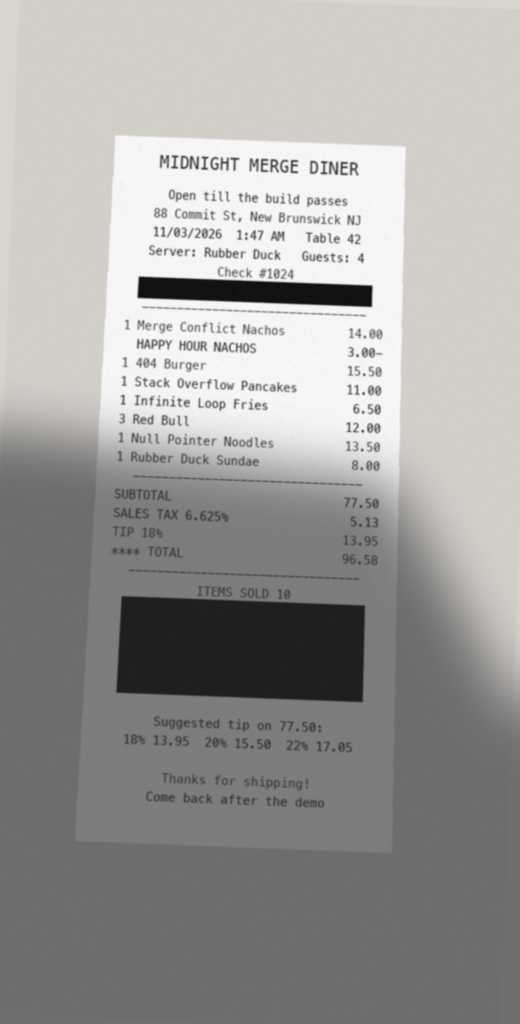
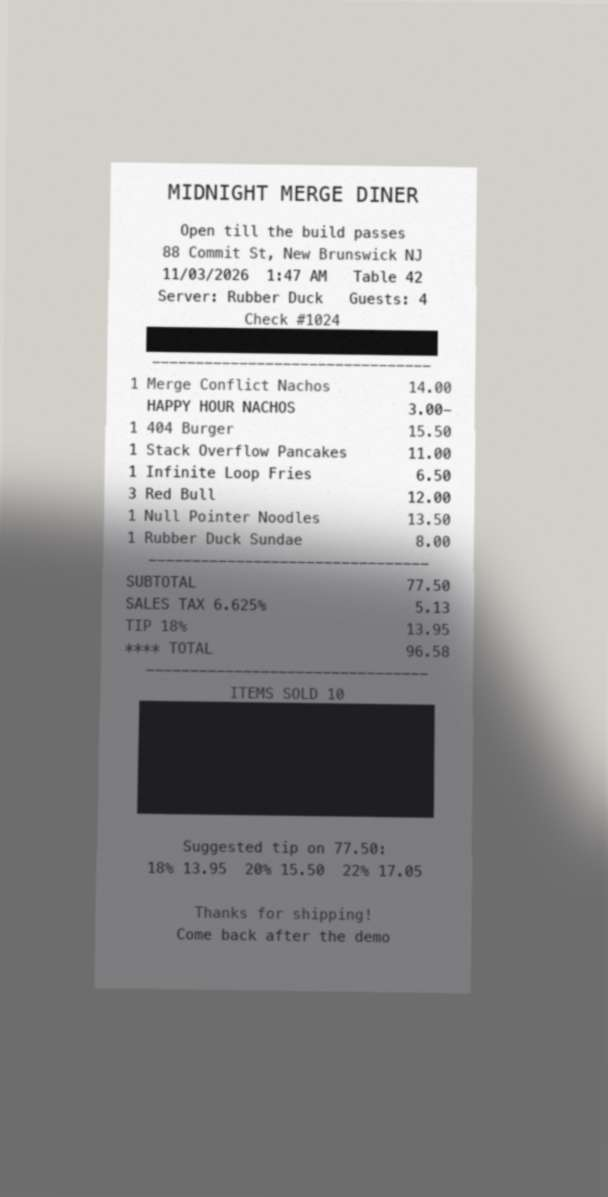
Save button says Balance Dex; demo photo SAM can place
- the save button and its status now say Balance Dex, like the heading
- the demo photo keeps its tilt and shadow with a gentler perspective, so
  SAM 3.1 marks all 7 items (it placed none at the old angle)

diff --git a/src/dex_ai/static/app.js b/src/dex_ai/static/app.js
@@ -685,12 +685,12 @@ function renderSave() {
   const btn = $("bd-save-btn");
   if (saved) {
     btn.disabled = true;
-    btn.textContent = "Saved to Balance Desk ✓";
+    btn.textContent = "Saved to Balance Dex ✓";
     setStatus($("bd-status"), `Expense #${saved.expense.id}${saved.replayed ? " (already saved earlier)" : ""}. ` +
-      "Edits from here on won't change it; edit it in Balance Desk.");
+      "Edits from here on won't change it; edit it in Balance Dex.");
   } else {
     btn.disabled = false;
-    btn.textContent = "Save to Balance Desk";
+    btn.textContent = "Save to Balance Dex";
   }
 }
 

diff --git a/scripts/make_demo_receipt.py b/scripts/make_demo_receipt.py
@@ -98,11 +98,11 @@ def paper() -> Image.Image:
     return img.convert("RGB")
 
 
-def photo(path):
+def photo(path, skew=0.02, tilt=-0.8, blur=0.9, size=(900, 1600), quality=60):
     p = paper()
     # perspective: the top edge further from the camera, so narrower
     w, h = p.size
-    k = 0.06 * w
+    k = skew * w
     p = p.transform((w, h), Image.Transform.QUAD, (-k, 0, -k * 0.2, h, w + k * 0.2, h, w + k, 0),
                     Image.Resampling.BICUBIC, fillcolor=(214, 211, 204))
     mask = Image.new("L", p.size, 0)
@@ -112,7 +112,7 @@ def photo(path):
     noise = Image.effect_noise(table.size, 10).convert("RGB")
     table = Image.blend(table, noise, 0.06)
     table.paste(p, (int(w * 0.26), int(h * 0.2)), mask)
-    table = table.rotate(-2.2, resample=Image.Resampling.BICUBIC, fillcolor=(216, 213, 207))
+    table = table.rotate(tilt, resample=Image.Resampling.BICUBIC, fillcolor=(216, 213, 207))
 
     # a hand's shadow across the lower half
     shade = Image.new("L", table.size, 0)
@@ -121,9 +121,9 @@ def photo(path):
     shade = shade.filter(ImageFilter.GaussianBlur(30))
     table = Image.composite(Image.new("RGB", table.size, (40, 40, 45)), table, shade)
 
-    table = table.filter(ImageFilter.GaussianBlur(0.9))
-    table.thumbnail((576, 1024), Image.Resampling.LANCZOS)
-    table.save(path, quality=50)
+    table = table.filter(ImageFilter.GaussianBlur(blur))
+    table.thumbnail(size, Image.Resampling.LANCZOS)
+    table.save(path, quality=quality)
 
 
 if __name__ == "__main__":
